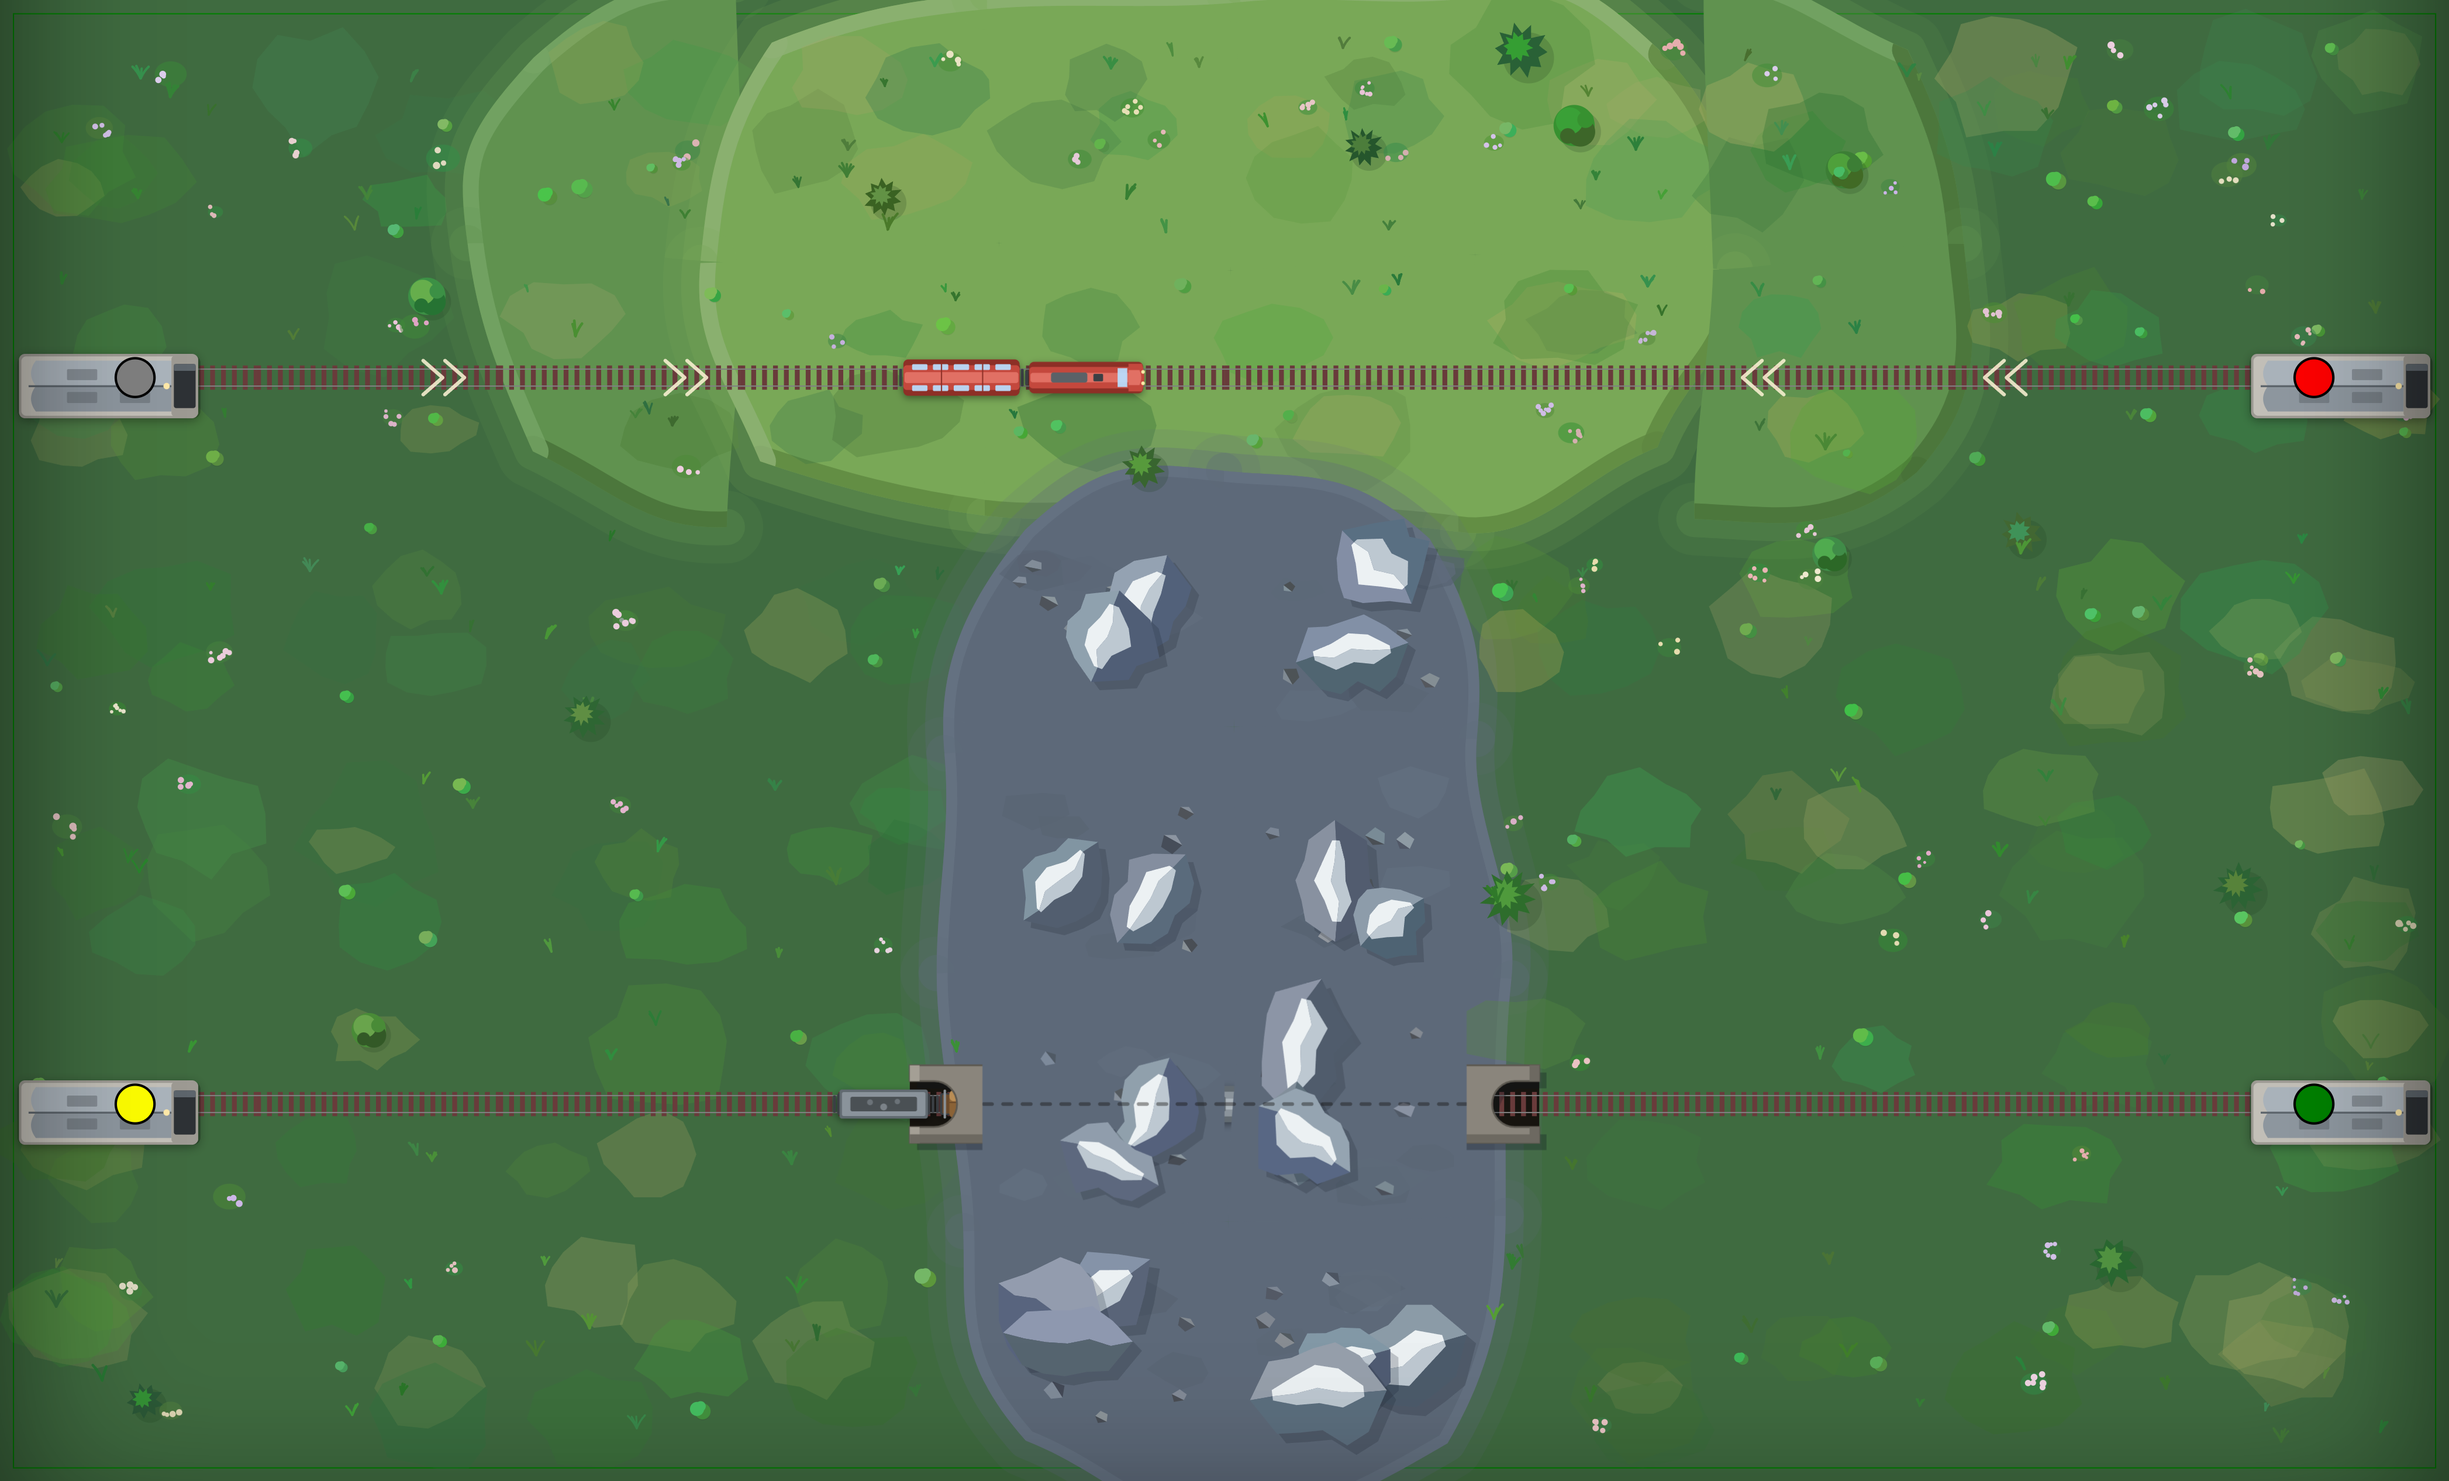
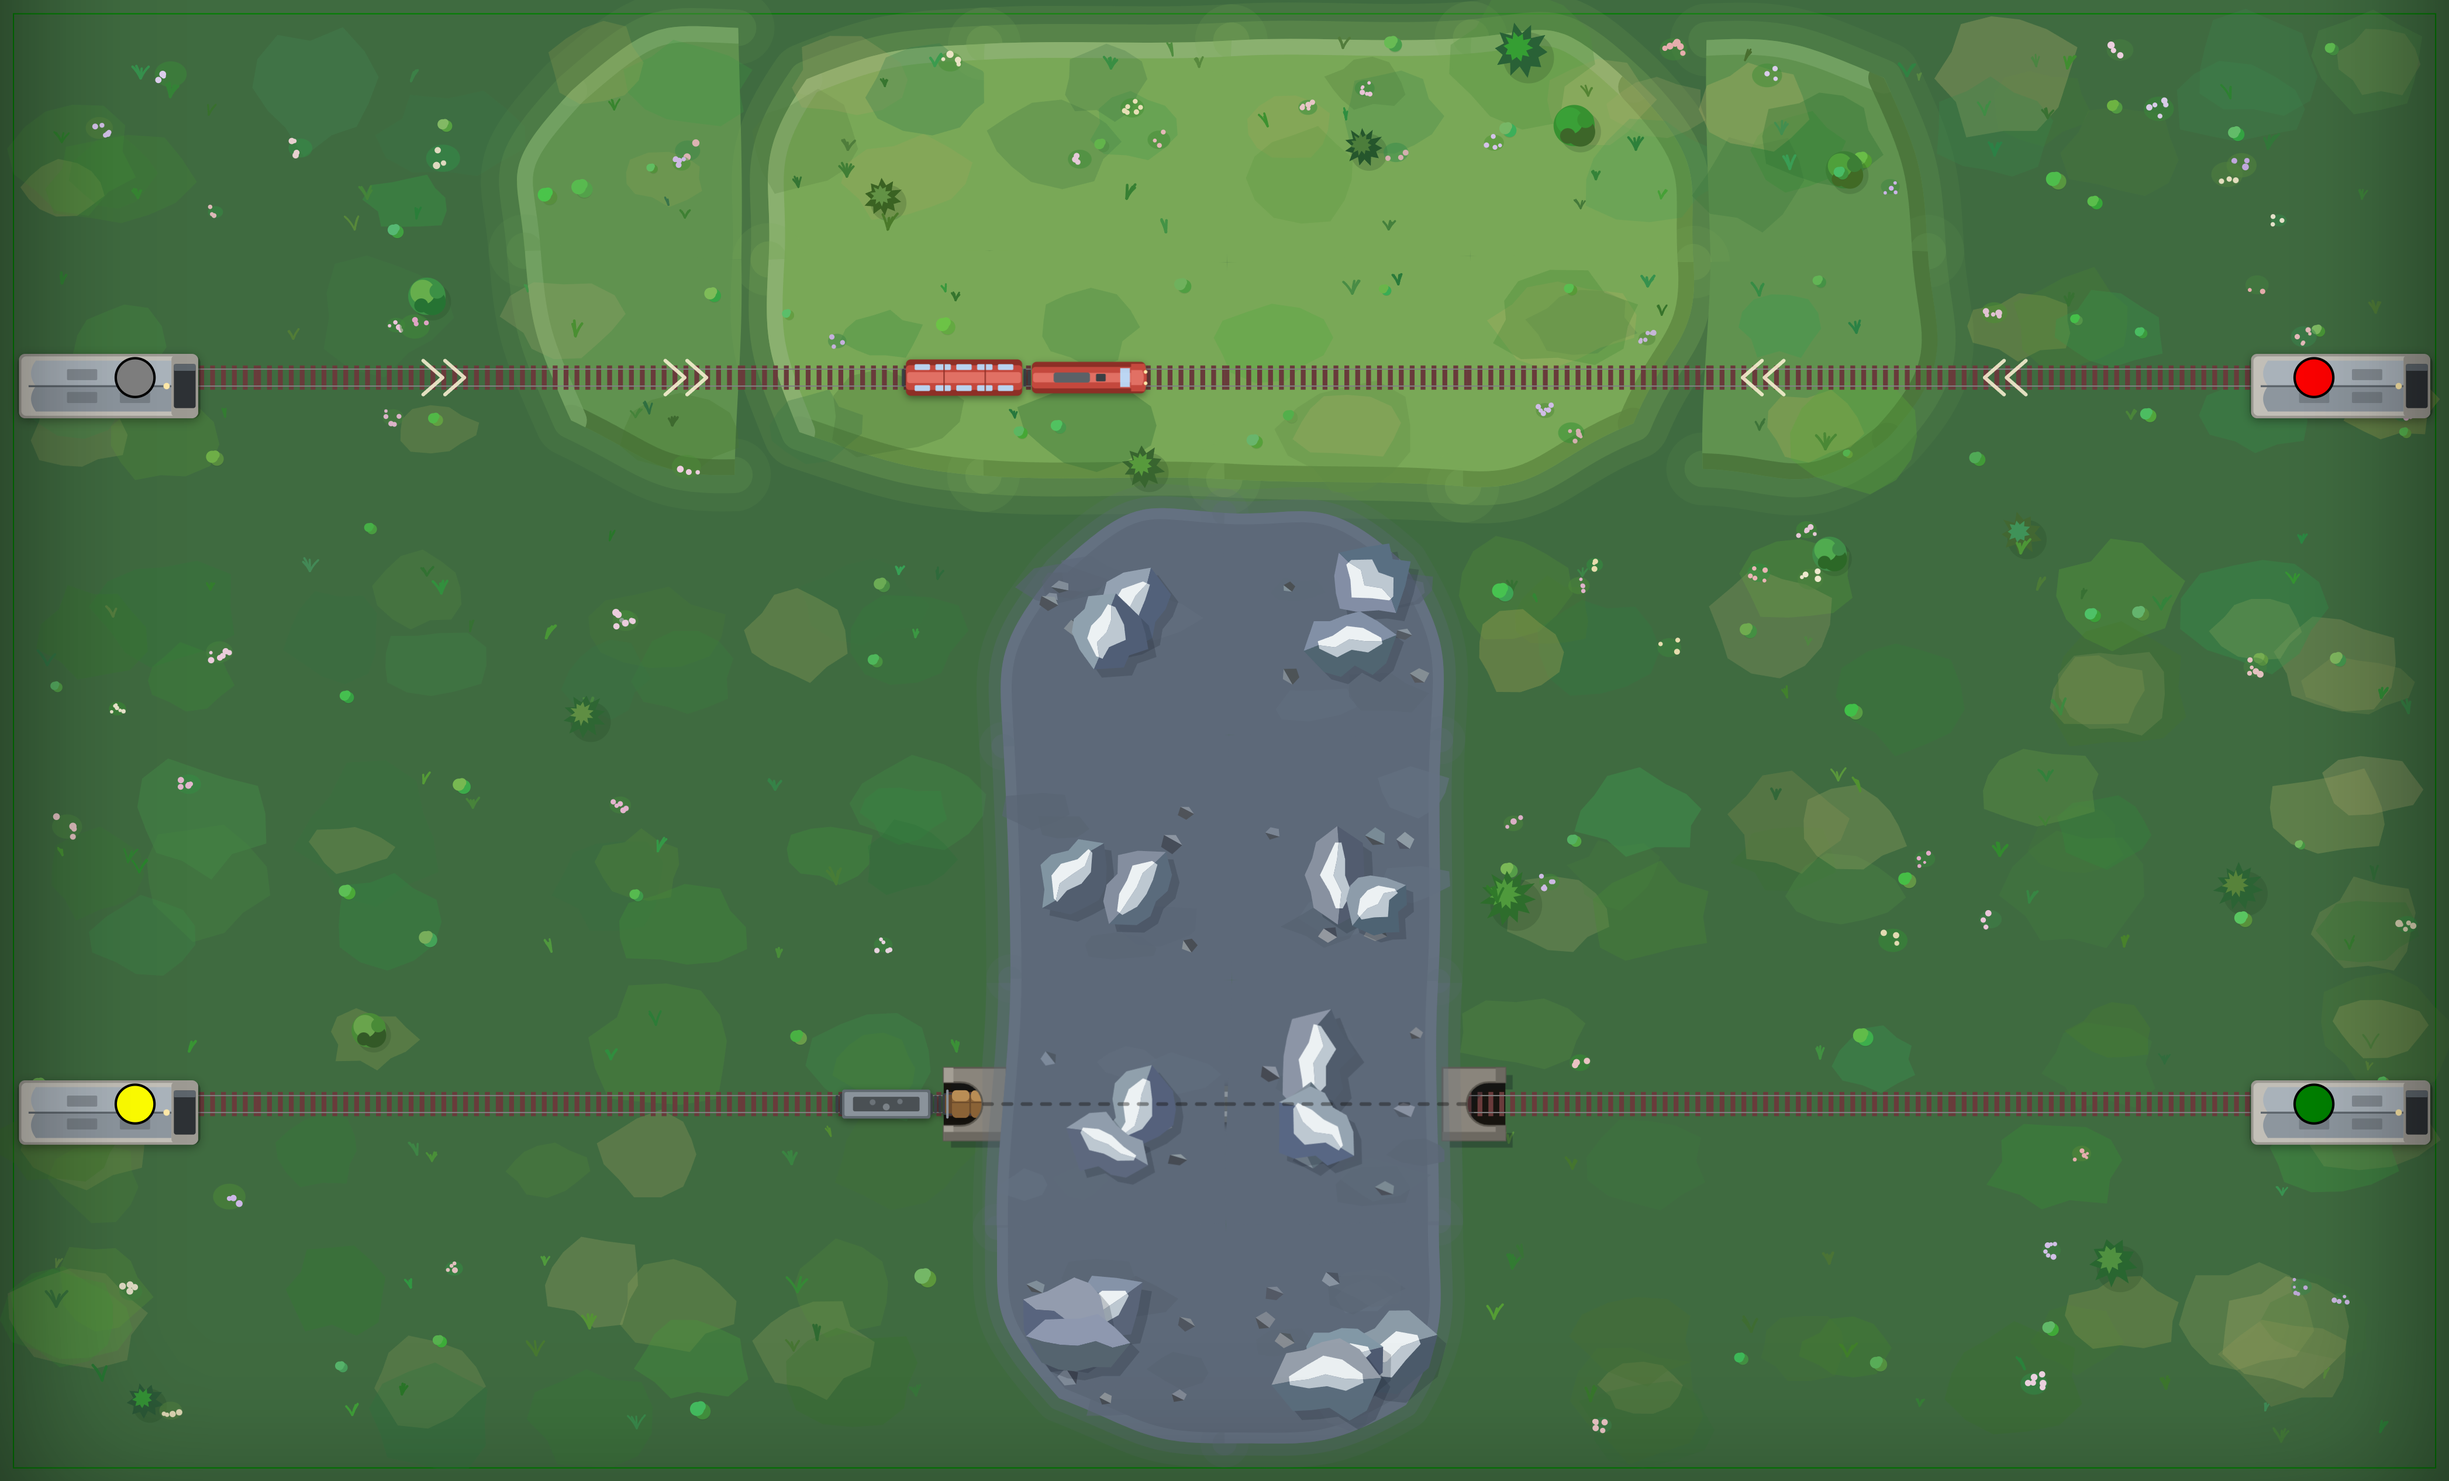
fix(tunnel): fit the portal to a mountain that now keeps to its tile
The gallery reached 30 units out over the open ground because the massif used
to overhang its own portal: a patch bowed up to ~15u past the seam, so anything
shorter had the hillside swallowing the train before the tunnel. `54b7391`
contained the patches — and left the portal standing a third of a tile out in
the meadow with nothing behind it.

Sized against the rock face, which is now the tile edge: face at 16u, the arch
springing at 9u so its crown lands on the edge, and the masonry running 14u past
it (the shore is pulled a little inside the tile, and the roof's patch with it —
the stonework has to cover that strip or a nose shows through between the two).

Also corrects what the comments and KNOWHOW claim about the bow, and restates
why the roof is a clipped copy: not the patch, which behaves now, but the soft
fringe, which is deliberately unclipped and would wash a passing consist in
mountain grey ten units before the portal.

Verified: /test/tunnel + /test/mountainpass refreshed in docs/verify/tunnel-portal/;
e2e 29 passed, lint + build clean. Unit: 2331 passed, 6 failed — all in
tests/unit/sim/parking.spec.ts, which fails the same way on master without this
change (checked by stashing it).

diff --git a/src/components/Tile.vue b/src/components/Tile.vue
@@ -169,11 +169,10 @@
          structure that is not above them. A train therefore runs INTO the dark
          instead of being cut off by it, which is the whole reason the opening is
          a separate element from the masonry above.
-         It also has to sit above the mountain's own ground patch, which bows out
-         of the tile far enough to reach in here: at z1 it covers that overhang,
-         so what shows inside a portal is always the bore and never the hillside.
-         The tile's rails stop at the bore, but the NEIGHBOUR's run on over this
-         and into it, which is exactly right. -->
+         Above the ground patches (z0) though, including the halo the mountain
+         spills onto its neighbour: what shows inside a portal is the bore, never
+         a wash of hillside. The tile's own rails stop at the bore, but the
+         NEIGHBOUR's run on over this and into it, which is exactly right. -->
     <svg
       v-if="isTunnel"
       class="tunnel-mouths"
@@ -189,15 +188,15 @@
     </svg>
 
     <!-- Tunnel portals, one per end of the bore that meets open ground (an
-         internal seam between two tunnel tiles gets none). The MASONRY, above
-         the trains and above the bore's own mountain roof (TileGround's
-         .tile-over-bore).
+         internal seam between two tunnel tiles gets none). The MASONRY, over the
+         trains and under the bore's mountain roof (TileGround's .tile-roof), so
+         the structure disappears INTO the hillside rather than sitting on it.
          Shape: a slab with a U cut out of it — an open approach between two
-         retaining walls, then the arch where the covered stretch begins. That
-         covered stretch is what swallows a train, and it runs from the arch all
-         the way to the tile edge, where the roof takes over. It has to: a
-         terrain patch bows OUT of its tile (corner push + edge bow, terrain.ts),
-         so the hillside would otherwise eat the train short of the tunnel. -->
+         retaining walls, then the arch where the covered stretch begins. The
+         covered stretch is what swallows a train, and it runs from the arch to
+         the tile edge, where the roof takes over. Since a patch now keeps to its
+         own tile (terrain.ts), that edge IS the rock face: the arch springs
+         where the mountain starts and the gallery stands on open ground. -->
     <svg
       v-if="isTunnel"
       class="tunnel-portals"
@@ -846,11 +845,15 @@ class Tile extends Vue {
   //
   // ONE SLAB WITH A U CUT OUT OF IT. The U is the open approach between two
   // retaining walls; where it rounds off is the arch, and from there inward the
-  // line is covered all the way to the tile edge. That covered stretch is not
-  // decoration: it is the occluder, and it has to reach the tile edge because
-  // the mountain's roof is clipped to the tile (a terrain patch bows out of its
-  // tile by up to ~15u, and an unclipped roof would swallow the train out there
-  // in the open, short of the tunnel).
+  // line is covered to the tile edge, where the roof takes over. That covered
+  // stretch is not decoration — it is the occluder, and the two must MEET or a
+  // train shows through in the gap.
+  //
+  // SIZED AGAINST THE ROCK FACE, which is the tile edge: a terrain patch keeps
+  // to its own tile (terrain.ts — it used to bow ~15u past it, and this portal
+  // used to be twice as long to clear that). So the arch springs at the edge and
+  // the gallery stands entirely on the open ground the line arrives on. If the
+  // containment rule ever moves, this geometry moves with it.
   //
   // The rest follows the terrain art's rules: flat facets rather than gradients,
   // a lit face and a shaded flank for volume, no line work (nothing else in the
@@ -866,13 +869,18 @@ class Tile extends Vue {
     const u = this.u;
     const pts = (list: [number, number][]) => list.map(([x, y]) => `${x * u},${y * u}`).join(" ");
     const n = (v: number) => v * u;
-    // FACE at y=-34, back edge at y=6 (inside the tile, under the roof).
-    // The U: jambs at x=±11 running back from the face to y=-22, then the arch.
-    const face = -30;
-    const back = 5;
-    const halfOut = 16; // half-width of the slab
-    const jamb = 9.5; // half-width of the opening
-    const spring = -20; // where the arch springs from
+    // FACE at y=-16, back edge at y=10 (inside the tile, under the roof). The U:
+    // jambs at x=±9 running back from the face to y=-9, where the arch springs —
+    // its crown lands on y=0, the tile edge, so the masonry hands the train over
+    // to the roof with no seam.
+    const face = -16;
+    // Well past the tile edge, because the ROOF's own patch stops a few units
+    // short of it (the shore is pulled in): the masonry has to cover that strip
+    // or a nose shows through between the two.
+    const back = 14;
+    const halfOut = 15; // half-width of the slab
+    const jamb = 9; // half-width of the opening
+    const spring = -9; // where the arch springs from
     return {
       // Outline traced anticlockwise around the U so the opening is a hole.
       wall:

diff --git a/src/components/TileGround.vue b/src/components/TileGround.vue
@@ -216,13 +216,14 @@ export default toNative(TileGround);
 // and out of existence in the middle of the ridge). The portal arch and the
 // dashed guide are lifted over the roof in Tile.vue.
 .tile-roof {
-  // CLIPPED TO THE TILE, unlike every other ground layer. A patch bows out of
-  // its box on purpose (that overlap is how two patches interlock), and a ROOF
-  // that bows would occlude a train out in the open — swallowing it short of
-  // the tunnel, at a wobbly rock edge, before it ever reached the portal. The
-  // unclipped original underneath still draws the silhouette; this copy only
-  // has to cover the tile it belongs to, and the portal's covered stretch
-  // reaches the tile edge to meet it.
+  // CLIPPED TO THE TILE, unlike every other ground layer. The patch keeps to
+  // its own tile now, but the soft FRINGE deliberately does not — it is half a
+  // stroke of the patch's own colour spilled onto the neighbour, and lifted
+  // above the trains it would wash a passing consist in mountain grey a good
+  // ten units before the portal. The original underneath still lays that
+  // fringe, where it belongs and under everything. What is left after the clip
+  // covers exactly the tile, and the portal's covered stretch reaches the tile
+  // edge to meet it.
   clip-path: inset(0);
 }
 .tile-ground.tile-roof {

diff --git a/docs/KNOWHOW.md b/docs/KNOWHOW.md
@@ -591,14 +591,18 @@ lean — prune as much as you add. This file only stays useful if every task ten
   that is a portal you want on the board.
 - THE ROOF IS A SECOND COPY, CLIPPED (`TileGround`, `.tile-roof`): the same
   ground/scatter art rendered again above the trains, `clip-path: inset(0)`.
-  Both halves of that matter. A patch BOWS OUT OF ITS TILE (corner push + edge
-  bow) by up to ~15 units, so an unclipped roof occludes a train out in the
-  open, at a wobbly rock edge, short of the tunnel — which is why the portal's
-  covered stretch runs all the way to the tile edge to meet the clip. And it has
-  to be a COPY, not a lift: clip the only copy and the ridge grows a flat spot
-  per bored tile, which is the tile grid the terrain art spends its whole budget
-  hiding. (The roof copy drops the height terrace — it renders under an opaque
-  patch, and duplicating it would duplicate its clipPath id.)
+  Both halves of that matter. CLIPPED because the soft fringe is deliberately
+  unclipped (half a stroke of the patch's colour, spilled onto the neighbour) —
+  lifted over the trains it washes a consist in mountain grey ten units before
+  the portal. A COPY, not a lift, so that fringe is still laid below everything
+  by the original. (The roof copy drops the height terrace — it renders under an
+  opaque patch, and duplicating it would duplicate its clipPath id.)
+- THE PORTAL IS SIZED AGAINST THE ROCK FACE, which is the tile edge: a patch
+  keeps to its own tile (`54b7391`), so the arch springs at the edge, its crown
+  lands on it, and the gallery stands entirely on open ground — 16u out, not the
+  30u it needed back when a massif overhung its own portal. The covered stretch
+  and the roof MUST meet at that edge; leave a gap and a train shows through it.
+  If the containment rule moves, `portalArt` moves with it.
 - The opening being UNDER the trains is also what keeps the hillside out of the
   portal: at z1 it covers the mountain's own bowed-out ground patch, so what
   shows inside a portal is always the bore. The neighbour's rails (z2) run over
